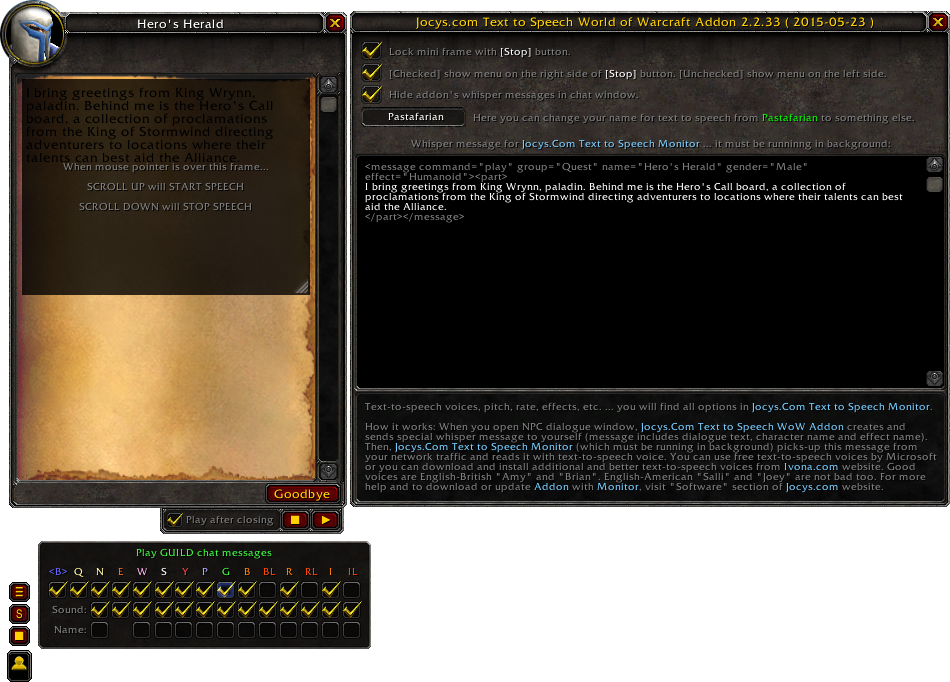
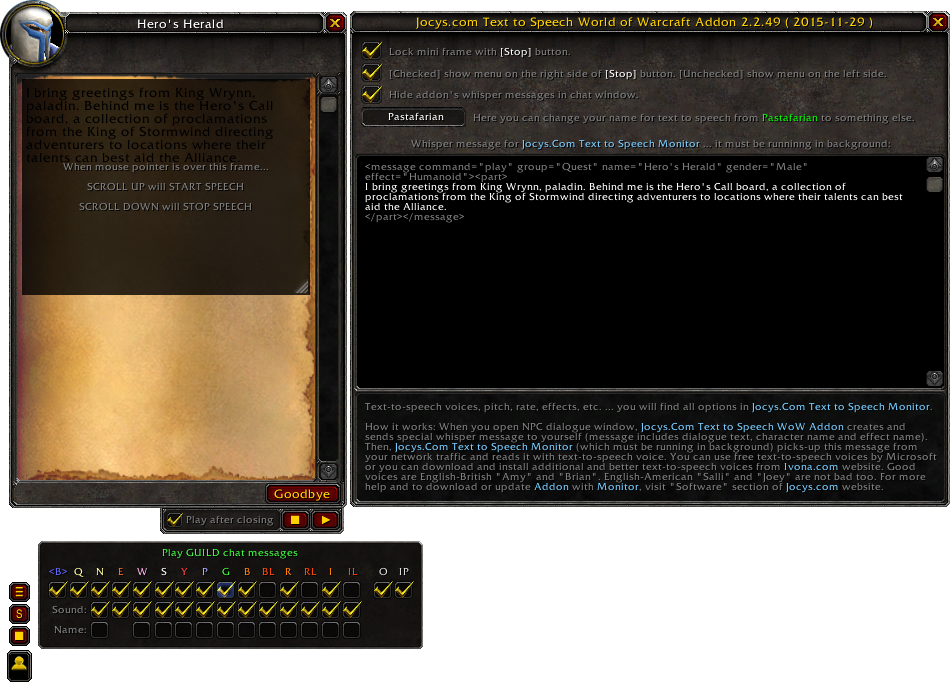
Addon update to 2.2.49 (2015-11-29) -- "Instantly play what you see" check-box's value save fixed.

diff --git a/TextToSpeech/Resources/Documents/JocysCom.TextToSpeech.Monitor.html b/TextToSpeech/Resources/Documents/JocysCom.TextToSpeech.Monitor.html
@@ -30,6 +30,7 @@ Monitor:<br />
 2.2.38 (2015-06-01) -- new intro sounds added, old intro sounds updated.<br />
 <br />
 Addon:<br />
+2.2.49 (2015-11-29) -- "Instantly play what you see" check-box's value save fixed.<br />
 2.2.48 (2015-11-28) -- "Quest objectives" and "Instantly play what you see" check-boxes added.<br />
 2.2.46 (2015-11-14) -- Plays outgoing whisper messages to BN friends.<br />
 2.2.45 (2015-08-05) -- JocysCom_OptionsFrame_OnShow function error fixed.<br />
